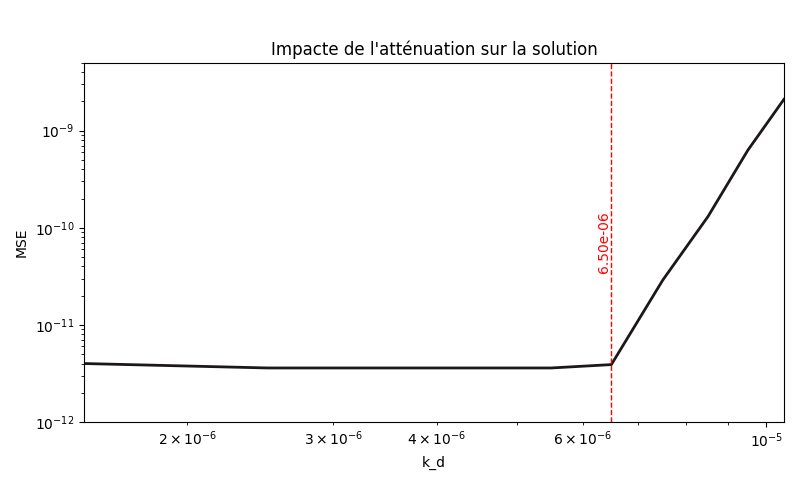
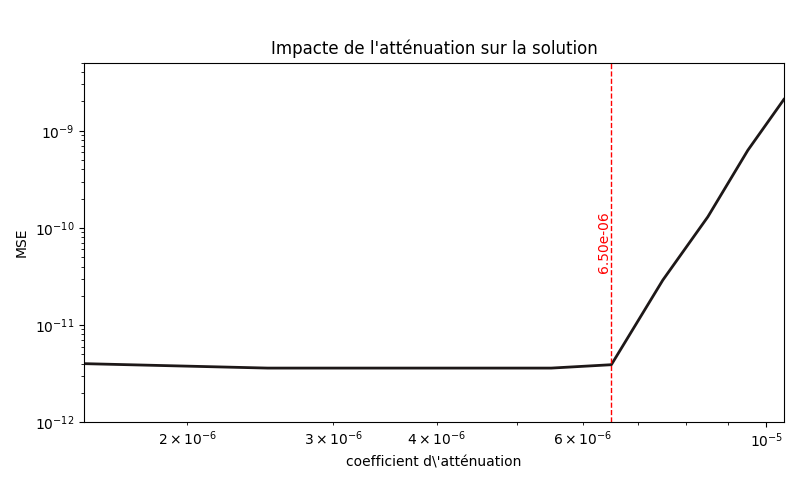
aze

diff --git a/assets/scripts/thesis/XPBD/01_plot_perf.py b/assets/scripts/thesis/XPBD/01_plot_perf.py
@@ -102,10 +102,10 @@ for ax in axes:
     ax.grid(False)
     ax.set_yscale("log")
     if(i == 0 or i == 2):
-        ax.set_ylabel("Erreur")
-    ax.set_xlabel("coût (ms)")
-    ax.legend()
-    ax.set_title(titles[i])
+        ax.set_ylabel("Erreur", fontsize=16)
+    ax.set_xlabel("coût (ms)", fontsize=16)
+    ax.legend(fontsize=16)
+    ax.set_title(titles[i], fontsize=16)
     i = i + 1
     
 # Echelles log

diff --git a/assets/scripts/thesis/XPBD/00_plot_damping.py b/assets/scripts/thesis/XPBD/00_plot_damping.py
@@ -30,7 +30,7 @@ ax.set_yscale("log")
 ax.set_ylabel("MSE")
 ax.set_xlim(1.5e-06, 1.05e-05)
 ax.set_ylim(1.0e-12, 5e-09)
-ax.set_xlabel(r"k_d")
+ax.set_xlabel(r"coefficient d\'atténuation")
 
 x_val = 6.5e-6
 ax.axvline(x=x_val, color='r', linestyle='--', linewidth=1)
